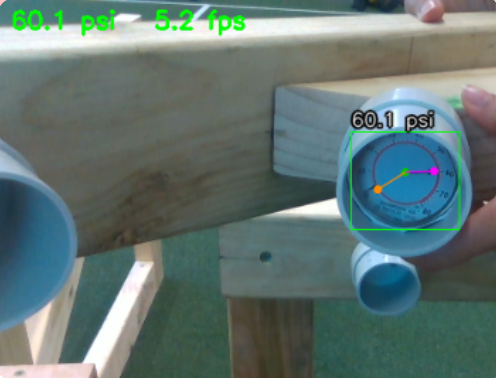
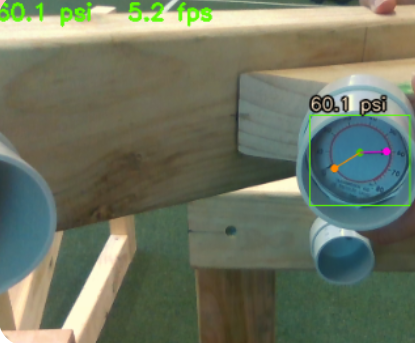
Change images

diff --git a/index.html b/index.html
@@ -600,7 +600,7 @@
     <div class="tech-details">
       <article class="tech-detail" id="tech-slam">
         <div class="tech-detail-media">
-          <img src="landing_page_visuals/3D Mapping & SLAM.png" alt="3D mapping and SLAM technology detail">
+          <img src="landing_page_visuals/SLAM.png" alt="3D mapping and SLAM technology detail">
         </div>
         <div class="tech-detail-body">
           <p class="tech-detail-kicker">01 · Mapping</p>
